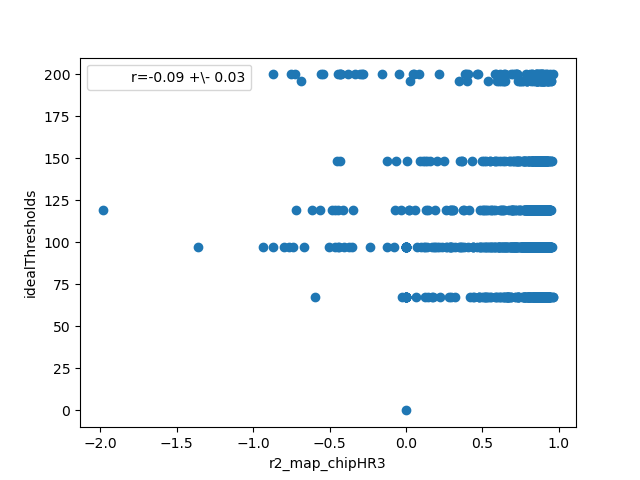
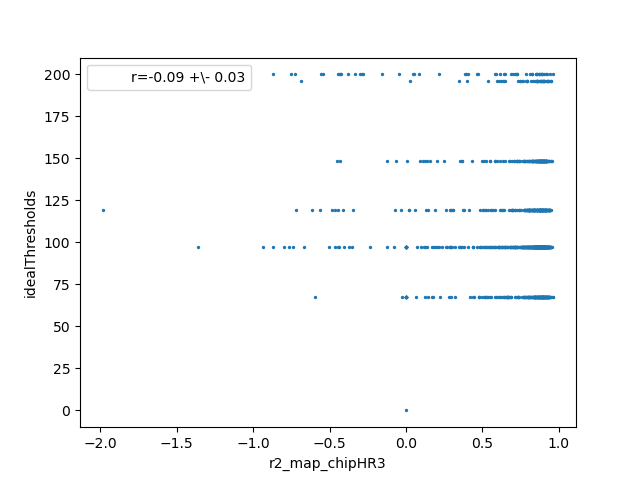
update correlation plots with visualizer maps for HR3

diff --git a/analysisScripts/correlateMaps.py b/analysisScripts/correlateMaps.py
@@ -1,23 +1,58 @@
 import pandas as pd
 import numpy as np
 import matplotlib.pyplot as plt
-from scipy.interpolate import pchip_interpolate
-from scipy.optimize import curve_fit
-import os,sys, glob, re
+import os
 import argparse
-from collections import defaultdict
 
 import digitalDataHelpers as ddh
-import analogDataHelpers as adh
 import calcHelpers as clch
-import plotHelpers as plth
 
 #################################################################
 # helper functions
 #################################################################   
+def makeMask(arr, cutName, cut):
 
+	if 'r2' in cutName:
+		#bad pixels have value less than cut
+		mask = np.reshape((arr<cut),(35,35))
+	else:
+		#bad pixels have values leq 0 or greater than cut
+		mask1 = np.reshape((arr>cut),(35,35))
+		mask2 = np.reshape((0>=arr), (35,35))
+		mask = mask1+mask2
+		
+	return mask
+
+def boolVis2(arrIn, label1, arrIn2, label2, barTitle:str=None):
+	"""Visualize array by plotting boolean 35x35 matrix and filling 'True' pixels, overlay two arrays to visualize where arrays overlap
+	Return: none"""
+	#expecting 35x35 array for arrIn
+
+	if 'idealThreshold' not in label1:
+		arrIn = np.flip(arrIn,0)
+	if 'idealThreshold' not in label2:
+		arrIn2 = np.flip(arrIn2,0)
+
+	fig = plt.figure()
+	ax = fig.add_subplot(111)
+	ax.imshow(arrIn, cmap='Reds', alpha=0.5, label=label1)
+	ax.imshow(arrIn2, cmap='Greys', alpha=0.5, label=label2)
 	
+	ylabels=[34-2*i for i in range(18)]
+	ax.set_xticks([2*i for i in range(18)])
+	ax.set_yticks([2*i for i in range(18)])
+	ax.set_yticklabels(ylabels)
+	ax.tick_params(axis="x", bottom=True, top=True, labelbottom=True, labeltop=True)
+	plt.title(f'Pink = {label1} ({np.sum(arrIn)} bad pixels) \n Grey = {label2} ({np.sum(arrIn2)} bad pixels) \n {np.sum(arrIn*arrIn2)} shared pixels')
+	plt.tight_layout() #reduce margin space	
 	
+	if args.savePlot:
+		plt.savefig(f"{saveDir}correlate_map_{label1}__{label2}.png")
+		plt.close()
+		plt.clf()
+	else:
+		plt.show()
+		
 #################################################################
 # main
 #################################################################
@@ -25,20 +60,20 @@ import plotHelpers as plth
 def main(args):
 
 	df0 = pd.read_csv(args.inputCSVs[0])
-	df0 = df0.replace(np.nan, 0.).to_numpy() #replace NaNs with zero and convert to numpy
-	df0_flat = df0[:,1:].flatten() #do not include first column of indices
+	df0 = df0.replace(np.nan, 0.).to_numpy()[:,1:] #replace NaNs with zero and convert to numpy, do not include first column of indices
+	df0_flat = df0.flatten()
 	df0_name = args.inputCSVs[0].split('/')[-1][:-4]
 		
 	df1 = pd.read_csv(args.inputCSVs[1])
-	df1 = df1.replace(np.nan, 0.).to_numpy() #replace NaNs with zero and convert to numpy
-	df1_flat = df1[:,1:].flatten() #do not include first column of indices
+	df1 = df1.replace(np.nan, 0.).to_numpy()[:,1:] #replace NaNs with zero, convert to numpy, do not include first column of indices
+	df1_flat = df1.flatten() #do not include first column of indices
 	df1_name = args.inputCSVs[1].split('/')[-1][:-4]
 	
 	#calculate correlation - error from  https://psyarxiv.com/uts98/	
 	r, r_err = clch.calcCorrCoeff(df0_flat,df1_flat)
 	
 	#save or display plots
-	plt.scatter(df0_flat,df1_flat)
+	plt.scatter(df0_flat,df1_flat, s=2)
 	plt.plot([], [], ' ', label=f"r={r:.2f} +\- {r_err:.2f}")
 	plt.legend(loc='best')
 	plt.xlabel(df0_name)
@@ -49,7 +84,18 @@ def main(args):
 		plt.clf()
 	else:
 		plt.show()
-
+		
+	#save or display maps of 'bad' pixels
+	if args.mapCorr:
+		thresh={'r2':0.6, 'totSig':2, 'totMean':7, 'idealThresholds':150}
+		
+		key0 = [ky for ky in thresh.keys() if(ky in df0_name)][0]
+		mask0 = makeMask(df0, key0, thresh[key0])
+		
+		key1 = [ky for ky in thresh.keys() if(ky in df1_name)][0]
+		mask1 = makeMask(df1, key1, thresh[key1])
+	
+		mapFigMean=boolVis2(mask0, key0, mask1, key1)
 
 
 #################################################################
@@ -57,7 +103,7 @@ def main(args):
 #################################################################
 if __name__ == "__main__":
 
-	saveDir = os.getcwd()+"/plotsOut/pixelScan_Am241/chip604/" #hardcode location of dir for saving output plots
+	saveDir = os.getcwd()+"/plotsOut/pixelScan_Am241/chipHR3/" #hardcode location of dir for saving output plots
 	dirPath = os.getcwd()[:-15] #go one directory above the current one where only scripts are held
 
 	parser = argparse.ArgumentParser(description='Correlate data stored in CSV files from full array maps')
@@ -65,7 +111,9 @@ if __name__ == "__main__":
     	help =  'Input CSV data files to correlate - each file should contain 35x35 array with value stored for each pixel. Default: [chip604_r2, chip604_idealThresholds]')
 	parser.add_argument('-s', '--savePlot', action='store_true', default=False, required=False, 
 		help='Save all plots (no display) to saveDir. Default: None (only displays, does not save)')	
-
+	parser.add_argument('-m', '--mapCorr', action='store_true', default=False, required=False, 
+		help='Save/display map of "bad pixels" per hardcoded metrics based on each variable. Default: False (does not plot)')	
+		
 	parser.add_argument
 	args = parser.parse_args()
 	

diff --git a/analysisScripts/calcHelpers.py b/analysisScripts/calcHelpers.py
@@ -72,6 +72,7 @@ def calcR2(y, y_fit):
 	
 	return r2
 	
+	
 def calcCorrCoeff(x,y):
 	"""Calculate Pearson correlation coefficient r value to quantify whether arrays x and y are correlated
 	Return: r, error"""
